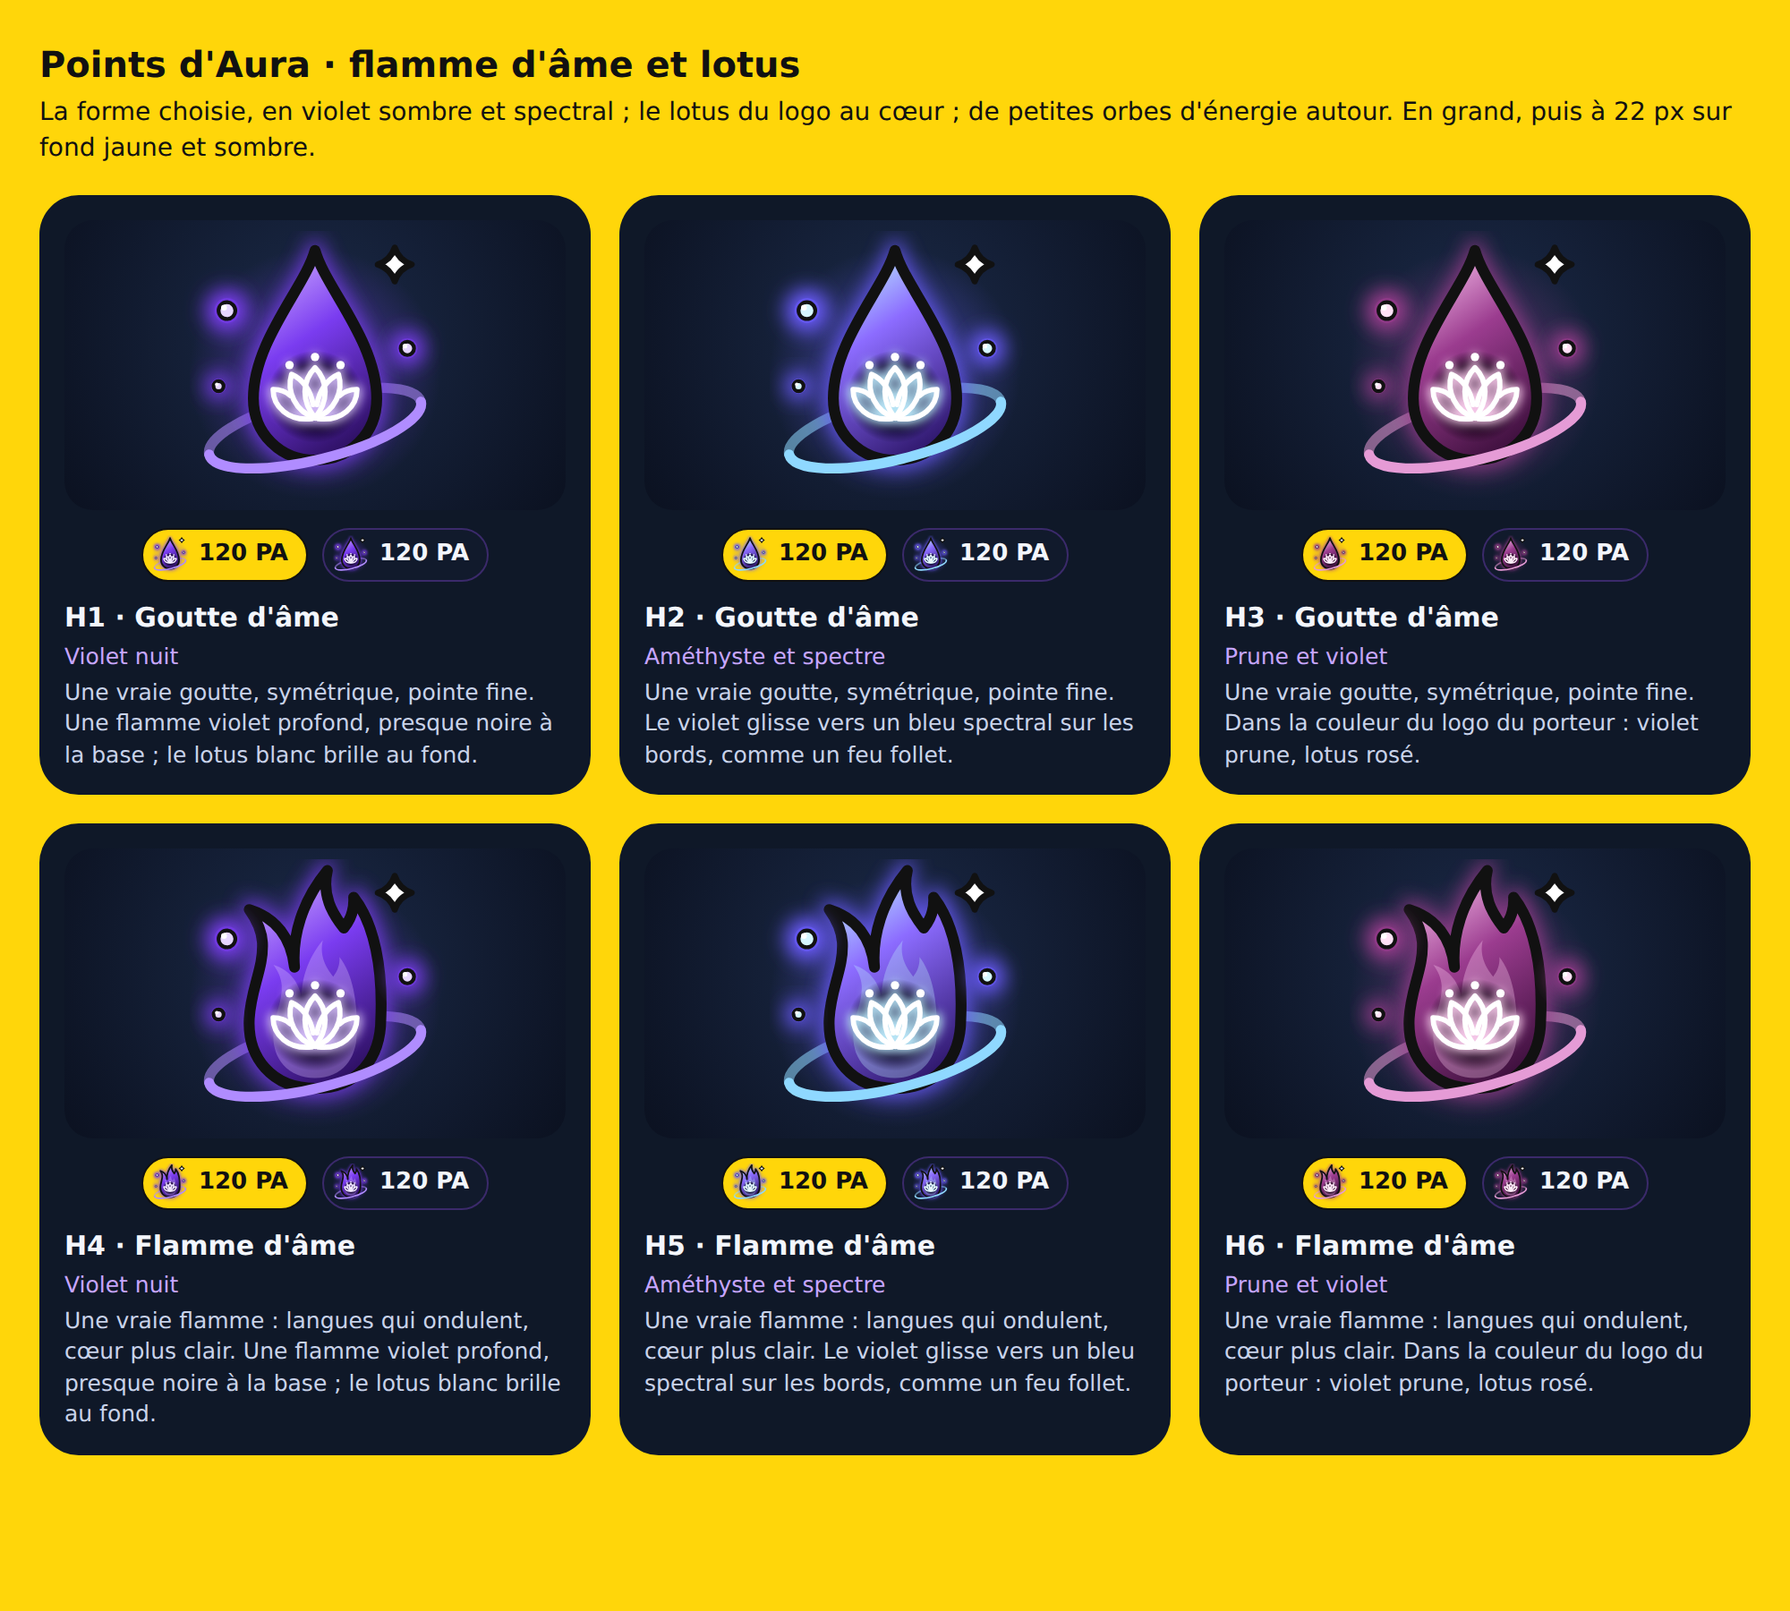
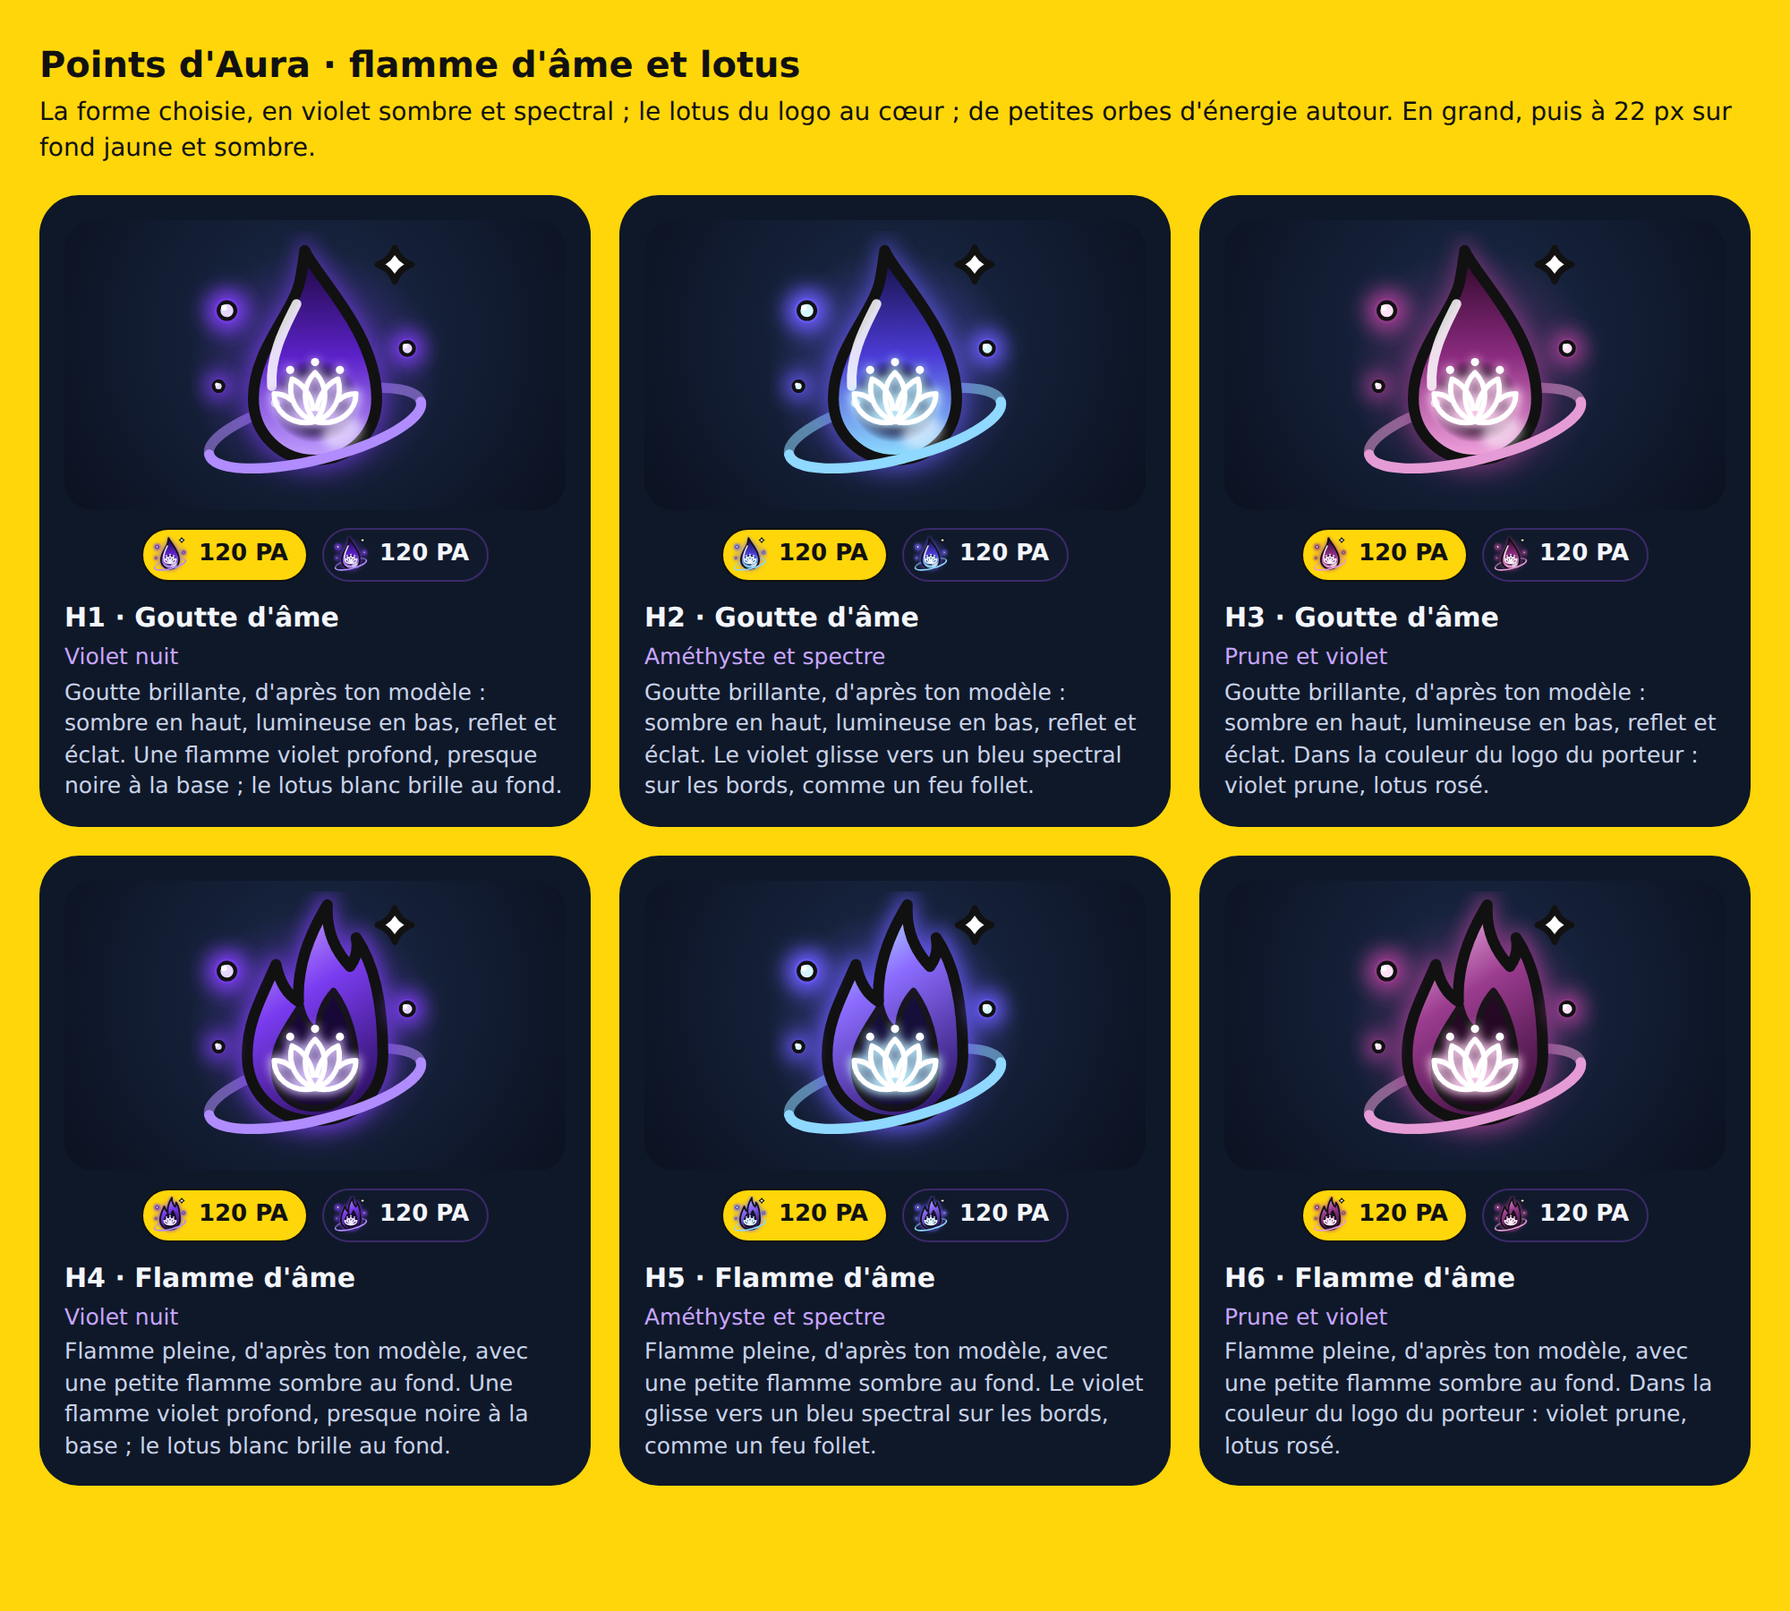
PA : goutte brillante et flamme pleine d'après les modèles du porteur
Claude-Session: https://claude.ai/code/session_01SSwv2Y1qPbttjAaeQe6b6x

diff --git a/tools/brand/pa/planche-lotus.html b/tools/brand/pa/planche-lotus.html
@@ -8,14 +8,14 @@ figcaption{display:flex;flex-direction:column;gap:2px}figcaption b{font-size:15p
 <h1>Points d'Aura · flamme d'âme et lotus</h1><p>La forme choisie, en violet sombre et spectral ; le lotus du logo au cœur ; de petites orbes d'énergie autour. En grand, puis à 22 px sur fond jaune et sombre.</p>
 <main><figure><div class="big"><img src="pa-h1.svg" alt=""></div>
 <div class="row"><span class="pill y"><img src="pa-h1.svg" alt="">120 PA</span><span class="pill d"><img src="pa-h1.svg" alt="">120 PA</span></div>
-<figcaption><b>H1 · Goutte d'âme</b><span>Violet nuit</span><em>Une vraie goutte, symétrique, pointe fine. Une flamme violet profond, presque noire à la base ; le lotus blanc brille au fond.</em></figcaption></figure><figure><div class="big"><img src="pa-h2.svg" alt=""></div>
+<figcaption><b>H1 · Goutte d'âme</b><span>Violet nuit</span><em>Goutte brillante, d'après ton modèle : sombre en haut, lumineuse en bas, reflet et éclat. Une flamme violet profond, presque noire à la base ; le lotus blanc brille au fond.</em></figcaption></figure><figure><div class="big"><img src="pa-h2.svg" alt=""></div>
 <div class="row"><span class="pill y"><img src="pa-h2.svg" alt="">120 PA</span><span class="pill d"><img src="pa-h2.svg" alt="">120 PA</span></div>
-<figcaption><b>H2 · Goutte d'âme</b><span>Améthyste et spectre</span><em>Une vraie goutte, symétrique, pointe fine. Le violet glisse vers un bleu spectral sur les bords, comme un feu follet.</em></figcaption></figure><figure><div class="big"><img src="pa-h3.svg" alt=""></div>
+<figcaption><b>H2 · Goutte d'âme</b><span>Améthyste et spectre</span><em>Goutte brillante, d'après ton modèle : sombre en haut, lumineuse en bas, reflet et éclat. Le violet glisse vers un bleu spectral sur les bords, comme un feu follet.</em></figcaption></figure><figure><div class="big"><img src="pa-h3.svg" alt=""></div>
 <div class="row"><span class="pill y"><img src="pa-h3.svg" alt="">120 PA</span><span class="pill d"><img src="pa-h3.svg" alt="">120 PA</span></div>
-<figcaption><b>H3 · Goutte d'âme</b><span>Prune et violet</span><em>Une vraie goutte, symétrique, pointe fine. Dans la couleur du logo du porteur : violet prune, lotus rosé.</em></figcaption></figure><figure><div class="big"><img src="pa-h4.svg" alt=""></div>
+<figcaption><b>H3 · Goutte d'âme</b><span>Prune et violet</span><em>Goutte brillante, d'après ton modèle : sombre en haut, lumineuse en bas, reflet et éclat. Dans la couleur du logo du porteur : violet prune, lotus rosé.</em></figcaption></figure><figure><div class="big"><img src="pa-h4.svg" alt=""></div>
 <div class="row"><span class="pill y"><img src="pa-h4.svg" alt="">120 PA</span><span class="pill d"><img src="pa-h4.svg" alt="">120 PA</span></div>
-<figcaption><b>H4 · Flamme d'âme</b><span>Violet nuit</span><em>Une vraie flamme : langues qui ondulent, cœur plus clair. Une flamme violet profond, presque noire à la base ; le lotus blanc brille au fond.</em></figcaption></figure><figure><div class="big"><img src="pa-h5.svg" alt=""></div>
+<figcaption><b>H4 · Flamme d'âme</b><span>Violet nuit</span><em>Flamme pleine, d'après ton modèle, avec une petite flamme sombre au fond. Une flamme violet profond, presque noire à la base ; le lotus blanc brille au fond.</em></figcaption></figure><figure><div class="big"><img src="pa-h5.svg" alt=""></div>
 <div class="row"><span class="pill y"><img src="pa-h5.svg" alt="">120 PA</span><span class="pill d"><img src="pa-h5.svg" alt="">120 PA</span></div>
-<figcaption><b>H5 · Flamme d'âme</b><span>Améthyste et spectre</span><em>Une vraie flamme : langues qui ondulent, cœur plus clair. Le violet glisse vers un bleu spectral sur les bords, comme un feu follet.</em></figcaption></figure><figure><div class="big"><img src="pa-h6.svg" alt=""></div>
+<figcaption><b>H5 · Flamme d'âme</b><span>Améthyste et spectre</span><em>Flamme pleine, d'après ton modèle, avec une petite flamme sombre au fond. Le violet glisse vers un bleu spectral sur les bords, comme un feu follet.</em></figcaption></figure><figure><div class="big"><img src="pa-h6.svg" alt=""></div>
 <div class="row"><span class="pill y"><img src="pa-h6.svg" alt="">120 PA</span><span class="pill d"><img src="pa-h6.svg" alt="">120 PA</span></div>
-<figcaption><b>H6 · Flamme d'âme</b><span>Prune et violet</span><em>Une vraie flamme : langues qui ondulent, cœur plus clair. Dans la couleur du logo du porteur : violet prune, lotus rosé.</em></figcaption></figure></main></html>
+<figcaption><b>H6 · Flamme d'âme</b><span>Prune et violet</span><em>Flamme pleine, d'après ton modèle, avec une petite flamme sombre au fond. Dans la couleur du logo du porteur : violet prune, lotus rosé.</em></figcaption></figure></main></html>

diff --git a/tools/brand/make_pa_lotus.py b/tools/brand/make_pa_lotus.py
@@ -20,21 +20,25 @@ from make_pa_soul import halo  # noqa: E402
 
 OUT = Path(__file__).with_name("pa")
 
-# Deux formes (2026-10-28, porteur : « vraiment une goutte » et « vraiment une flamme »). Unités : corps centré en
-# 0, 0, base en y = 18. Courbes continues, trait régulier.
-# Goutte : symétrique, pointe fine en haut au centre, fond bien rond.
-SOUL2 = [("M", [(0, -33)]),
-         ("C", [(2.5, -24), (15, -11), (15, 3)]), ("C", [(15, 11.5), (8.5, 18), (0, 18)]),
-         ("C", [(-8.5, 18), (-15, 11.5), (-15, 3)]), ("C", [(-15, -11), (-2.5, -24), (0, -33)])]
-# Flamme : grande langue centrale qui s'incline à droite, langue gauche qui s'écarte vers l'extérieur, petite langue
-# droite ; base ronde.
+# Deux formes, d'après les modèles envoyés par le porteur (2026-10-28). Unités : corps centré en 0, 0, base en
+# y = 18. Courbes continues, trait régulier.
+# Goutte (modèle : goutte d'eau brillante) : pointe fine qui s'incline à peine à gauche, fond bien rond.
+SOUL2 = [("M", [(-2.5, -33)]),
+         ("C", [(0, -27), (15, -13), (15, 3)]), ("C", [(15, 11.5), (8.5, 18), (0, 18)]),
+         ("C", [(-8.5, 18), (-15, 11.5), (-15, 3)]), ("C", [(-15, -9), (-5, -18), (-3.6, -26)]),
+         ("C", [(-3.1, -28.5), (-2.8, -31), (-2.5, -33)])]
+# Flamme (modèle : pictogramme de feu plein) : grande pointe centrale, langue à gauche, petite langue à droite,
+# base ronde ; une petite flamme intérieure plus sombre au fond (FLAME_IN).
 SOUL3 = [("M", [(0, 18)]),
-         ("C", [(-10.5, 18), (-16.5, 10.5), (-16, 1)]), ("C", [(-15.6, -6.5), (-12.5, -11), (-12.8, -17.5)]),
-         ("C", [(-13, -20.5), (-14.2, -23), (-16, -25.5)]), ("C", [(-9.5, -23.5), (-5.8, -18.5), (-5, -11.5)]),
-         ("C", [(-5.6, -19), (-3.2, -27.5), (3, -35)]), ("C", [(1.6, -29), (4.2, -24.5), (7, -21)]),
-         ("C", [(8.6, -23), (9.6, -25.5), (9.4, -28.5)]), ("C", [(14.5, -22), (16.5, -11), (16, 1)]),
-         ("C", [(16, 10.5), (10.5, 18), (0, 18)])]
-SHAPE = {"goutte": SOUL2, "flamme": SOUL3}
+         ("C", [(-10.5, 18), (-16.5, 10.5), (-16.5, 2)]), ("C", [(-16.5, -6), (-13, -12), (-9.5, -20)]),
+         ("C", [(-8.5, -15), (-6.5, -12.5), (-4, -11)]), ("C", [(-4.5, -20), (-1, -28), (3, -34.5)]),
+         ("C", [(2.6, -28), (5.2, -23), (8.5, -19.5)]), ("C", [(10, -21.5), (10.5, -24), (10, -26.5)]),
+         ("C", [(14.5, -20), (16.5, -10), (16.5, 2)]), ("C", [(16.5, 10.5), (10.5, 18), (0, 18)])]
+FLAME_IN = [("M", [(0, 15)]),
+            ("C", [(-6.5, 15), (-10, 10.5), (-10, 5)]), ("C", [(-10, -1), (-6.5, -5), (-3.5, -10)]),
+            ("C", [(-2.8, -6.5), (-1.2, -4.5), (0.8, -3.8)]), ("C", [(0.8, -7.5), (2.2, -11), (4.5, -13.5)]),
+            ("C", [(8.5, -8), (10, -1), (10, 5)]), ("C", [(10, 10.5), (6.5, 15), (0, 15)])]
+SHAPE = {"goutte": SOUL2, "flamme": SOUL3, "dedans": FLAME_IN}
 
 
 def soul(cx, cy, k, fill, stroke="#111111", sw=2.6, shape="goutte"):
@@ -70,22 +74,31 @@ def orb(x, y, r, core, glow):
             f'<circle cx="{x - r * 0.35}" cy="{y - r * 0.35}" r="{r * 0.35}" fill="#FFFFFF"/>')
 
 
-def lotus_icon(title, stops, ring, glow, core_dark, lotus_color, orb_core, shape="goutte"):
+def lotus_icon(title, stops, ring, glow, core_dark, lotus_color, orb_core, shape="goutte", drop=None):
     defs = ('<filter id="gl" x="-60%" y="-60%" width="220%" height="220%"><feGaussianBlur stdDeviation="2.4"/></filter>'
             '<filter id="lg" x="-30%" y="-30%" width="160%" height="160%"><feGaussianBlur stdDeviation="1.1"/></filter>'
             + rad("au", [(0, glow, 0.7), (0.6, glow, 0.22), (1, glow, 0)]) + grad("fl", stops)
-            + rad("co", [(0, core_dark, 1), (0.7, core_dark, 0.85), (1, core_dark, 0)]))
+            + rad("co", [(0, core_dark, 1), (0.7, core_dark, 0.85), (1, core_dark, 0)])
+            + (grad("dg", drop, 0.5, 0, 0.5, 1) if drop else ""))
     body = '<circle cx="32" cy="34" r="30" fill="url(#au)"/>'
     body += halo(32, 47, 26, 7.5, -14, ring, "back")
     # Aura fantôme floue, puis la flamme d'âme.
-    body += soul(32, 37, 1.02, glow, glow, 3, shape).replace('/>', ' filter="url(#gl)" opacity="0.85"/>')
-    body += soul(32, 37, 0.98, "url(#fl)", shape=shape)
-    if shape == "flamme":
-        body += soul(32, 41, 0.62, lotus_color, "none", 0, shape).replace('/>', ' opacity="0.32"/>')
-    # Cœur sombre au fond de la flamme, et le lotus qui y brille (trait lumineux + lueur).
-    body += '<ellipse cx="32" cy="39.5" rx="11.5" ry="11" fill="url(#co)"/>'
-    body += f'<g filter="url(#lg)" opacity="0.95">{lotus(32, 39, 0.8, lotus_color, 2.4)}</g>'
-    body += lotus(32, 39, 0.8, "#FFFFFF", 1.25)
+    body += soul(32, 37, 1.02, glow, glow, 3, shape).replace('/>', ' filter="url(#gl)" opacity="' + ("0.6" if shape == "goutte" else "0.85") + '"/>')
+    if shape == "goutte":
+        # Goutte brillante : dégradé vertical sombre → lumineux, cœur sombre pour le lotus, reflet et éclat.
+        body += soul(32, 37, 0.98, "url(#dg)", shape=shape)
+        body += '<ellipse cx="32" cy="40.5" rx="10.5" ry="10" fill="url(#co)"/>'
+        body += '<path d="M21.7 37C21.2 29.2 25.2 22.3 27.6 17.4" fill="none" stroke="#FFFFFF" stroke-width="2.3" stroke-linecap="round" opacity="0.85"/>'
+        body += '<circle cx="22.6" cy="41" r="1.1" fill="#FFFFFF" opacity="0.85"/>'
+        body += '<ellipse cx="38.5" cy="48" rx="5" ry="3.6" fill="#FFFFFF" filter="url(#lg)" opacity="0.55" transform="rotate(-25 38.5 48)"/>'
+        lx, ly = 32, 40
+    else:
+        body += soul(32, 37, 0.98, "url(#fl)", shape=shape)
+        body += soul(32, 37, 0.98, core_dark, "#111111", 1.6, "dedans").replace('/>', ' opacity="0.92"/>')
+        lx, ly = 32, 41.5
+    # Le lotus qui brille au fond (trait lumineux + lueur).
+    body += f'<g filter="url(#lg)" opacity="0.95">{lotus(lx, ly, 0.78, lotus_color, 2.4)}</g>'
+    body += lotus(lx, ly, 0.78, "#FFFFFF", 1.25)
     body += halo(32, 47, 26, 7.5, -14, ring, "front")
     # Orbes d'énergie à la place des flammèches.
     body += orb(11, 19, 2.0, orb_core, glow) + orb(54, 28, 1.6, orb_core, glow) + orb(9, 37, 1.2, orb_core, glow)
@@ -95,17 +108,20 @@ def lotus_icon(title, stops, ring, glow, core_dark, lotus_color, orb_core, shape
 
 TINTS = [
     ("Violet nuit", "Une flamme violet profond, presque noire à la base ; le lotus blanc brille au fond.",
-     [(0, "#C9A6FF"), (0.4, "#7A3CF0"), (1, "#2A0E5C")], "#B08CFF", "#7A3CF0", "#12052B", "#D9C2FF", "#E6D6FF"),
+     [(0, "#C9A6FF"), (0.4, "#7A3CF0"), (1, "#2A0E5C")], "#B08CFF", "#7A3CF0", "#12052B", "#D9C2FF", "#E6D6FF",
+     [(0, "#1A0838"), (0.5, "#5B21C8"), (1, "#C4A2FF")]),
     ("Améthyste et spectre", "Le violet glisse vers un bleu spectral sur les bords, comme un feu follet.",
-     [(0, "#B9E9FF"), (0.35, "#8C6CFF"), (1, "#2B1466")], "#8FD8FF", "#6C5CFF", "#0F0A2E", "#BFEFFF", "#D6F6FF"),
+     [(0, "#B9E9FF"), (0.35, "#8C6CFF"), (1, "#2B1466")], "#8FD8FF", "#6C5CFF", "#0F0A2E", "#BFEFFF", "#D6F6FF",
+     [(0, "#120E3A"), (0.5, "#4B3BD6"), (1, "#8FE3FF")]),
     ("Prune et violet", "Dans la couleur du logo du porteur : violet prune, lotus rosé.",
-     [(0, "#F3B8E6"), (0.4, "#9B3C8F"), (1, "#3A0E3A")], "#E59BD6", "#9B3C8F", "#1E061E", "#FFD1F2", "#FFE1F6"),
+     [(0, "#F3B8E6"), (0.4, "#9B3C8F"), (1, "#3A0E3A")], "#E59BD6", "#9B3C8F", "#1E061E", "#FFD1F2", "#FFE1F6",
+     [(0, "#2A0726"), (0.5, "#8A2A7E"), (1, "#F3A6E0")]),
 ]
 V = {}
 for i, (shape, label) in enumerate((("goutte", "Goutte d'âme"), ("flamme", "Flamme d'âme"))):
-    for j, (color, idea, stops, ring, glow, dark, lot, orbc) in enumerate(TINTS):
-        V["h%d" % (i * 3 + j + 1)] = (label, color, ("Une vraie goutte, symétrique, pointe fine. " if shape == "goutte" else "Une vraie flamme : langues qui ondulent, cœur plus clair. ") + idea,
-                                      lotus_icon("PA · " + label + " · " + color, stops, ring, glow, dark, lot, orbc, shape))
+    for j, (color, idea, stops, ring, glow, dark, lot, orbc, drop) in enumerate(TINTS):
+        V["h%d" % (i * 3 + j + 1)] = (label, color, ("Goutte brillante, d'après ton modèle : sombre en haut, lumineuse en bas, reflet et éclat. " if shape == "goutte" else "Flamme pleine, d'après ton modèle, avec une petite flamme sombre au fond. ") + idea,
+                                      lotus_icon("PA · " + label + " · " + color, stops, ring, glow, dark, lot, orbc, shape, drop))
 
 
 def main():

diff --git a/docs/03-journal-decisions.md b/docs/03-journal-decisions.md
@@ -9,7 +9,7 @@
 ## 2026-10-28 (suite) — Méga-évolutions à 2 500 PA validées, 500 scans au Grand maître mondial, pastille PA décalée, propositions d'illustration des PA
 
 - **Décisions du porteur :** 2 500 PA par méga-évolution **validé** ; item « Deluxe » à définir plus tard ; Grand maître mondial Pokémon : **500 scans par jour** au lieu de 100.
-- **Fait :** pastille des PA descendue de 7 px dans l'en-tête (elle chevauchait celle des PK) ; 6 propositions d'illustration des PA (`tools/brand/make_pa_proposals.py`, `tools/brand/pa/planche.html`) autour d'une flamme ou d'une âme au plus profond de l'être (chakra, nen) : A Âme ardente (violet), B Chakra (or), C Nen (vert émeraude), D Cœur d'éveil (bleu glacier), E Flamme d'évolution (rouge et or, spirale), F Esprit (rose magenta) ; **choix du porteur attendu** avant de remplacer `web/img/brand/pa.svg`. Le porteur retient E (spirale) et F (halo) et demande un style « flamme d'âme » : 2ᵉ série de 6 variantes G1 à G6 (`tools/brand/make_pa_soul.py`, `tools/brand/pa/planche-soul.html`) : flamme d'âme lumineuse, spirale au cœur, halo autour, flammèches ; rouge et or, rose, violet, bleu spectral, sphère en orbite, or vers rose. Puis, forme gardée, 3ᵉ série (`tools/brand/make_pa_lotus.py`, `tools/brand/pa/planche-lotus.html`) : violet sombre et spectral, **lotus du logo du porteur** au cœur à la place de la spirale, petites orbes d'énergie à la place des flammèches, halo autour de la base ; H1 violet nuit, H2 améthyste et spectre, H3 prune ; puis barre du lotus retirée et contour redessiné en courbes régulières, en deux formes, redessinées à la demande du porteur : une vraie goutte symétrique à pointe fine (H1 à H3) et une vraie flamme aux langues qui ondulent, cœur plus clair (H4 à H6) ; choix attendu.
+- **Fait :** pastille des PA descendue de 7 px dans l'en-tête (elle chevauchait celle des PK) ; 6 propositions d'illustration des PA (`tools/brand/make_pa_proposals.py`, `tools/brand/pa/planche.html`) autour d'une flamme ou d'une âme au plus profond de l'être (chakra, nen) : A Âme ardente (violet), B Chakra (or), C Nen (vert émeraude), D Cœur d'éveil (bleu glacier), E Flamme d'évolution (rouge et or, spirale), F Esprit (rose magenta) ; **choix du porteur attendu** avant de remplacer `web/img/brand/pa.svg`. Le porteur retient E (spirale) et F (halo) et demande un style « flamme d'âme » : 2ᵉ série de 6 variantes G1 à G6 (`tools/brand/make_pa_soul.py`, `tools/brand/pa/planche-soul.html`) : flamme d'âme lumineuse, spirale au cœur, halo autour, flammèches ; rouge et or, rose, violet, bleu spectral, sphère en orbite, or vers rose. Puis, forme gardée, 3ᵉ série (`tools/brand/make_pa_lotus.py`, `tools/brand/pa/planche-lotus.html`) : violet sombre et spectral, **lotus du logo du porteur** au cœur à la place de la spirale, petites orbes d'énergie à la place des flammèches, halo autour de la base ; H1 violet nuit, H2 améthyste et spectre, H3 prune ; puis barre du lotus retirée et contour redessiné en courbes régulières, en deux formes, redessinées à la demande du porteur : une vraie goutte symétrique à pointe fine (H1 à H3) et une vraie flamme aux langues qui ondulent, cœur plus clair (H4 à H6) ; puis redessinées d'après deux modèles envoyés par le porteur : goutte d'eau brillante (sombre en haut, lumineuse en bas, reflet et éclat) et pictogramme de feu plein avec une petite flamme intérieure ; choix attendu.
 
 ---
 
